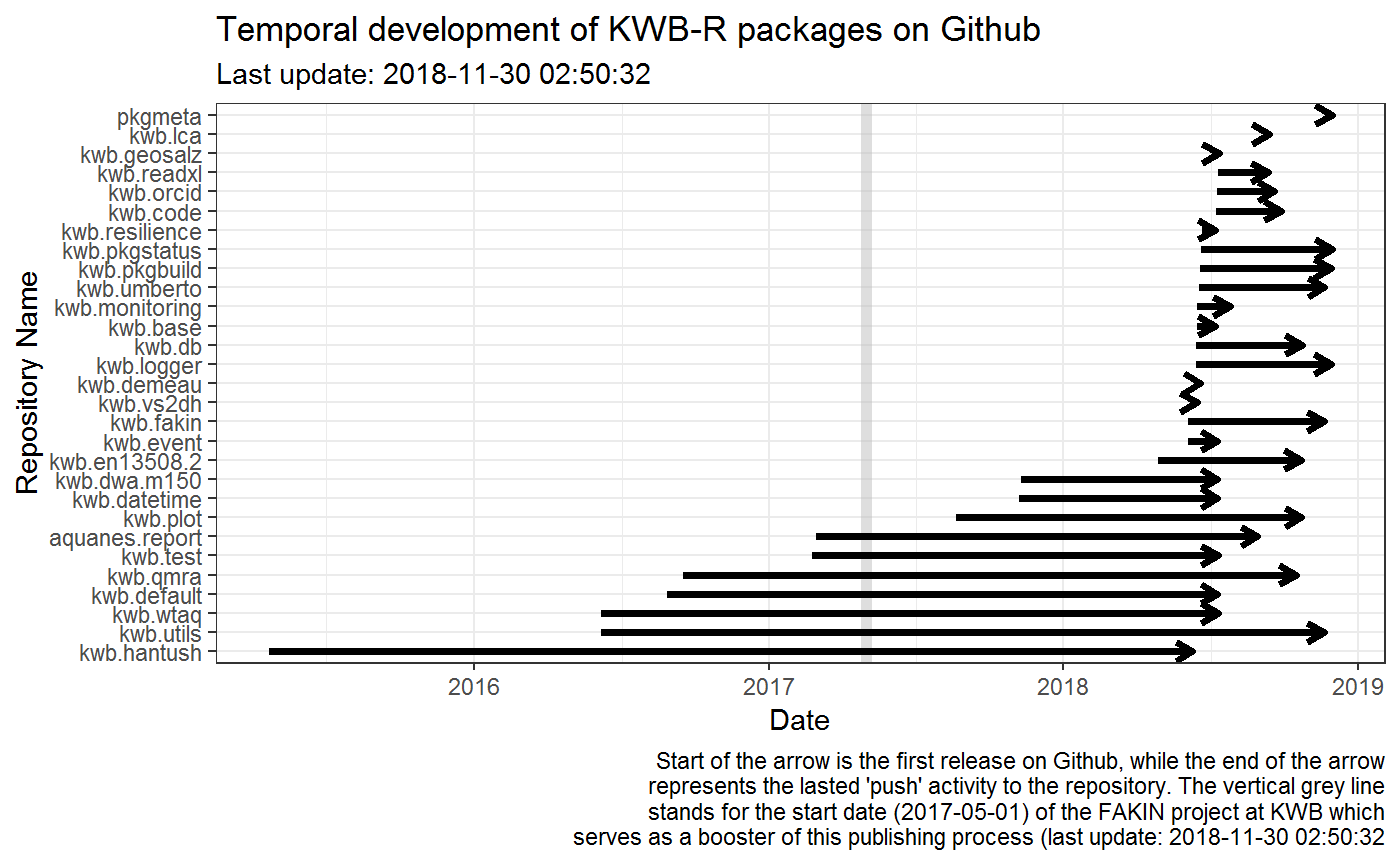
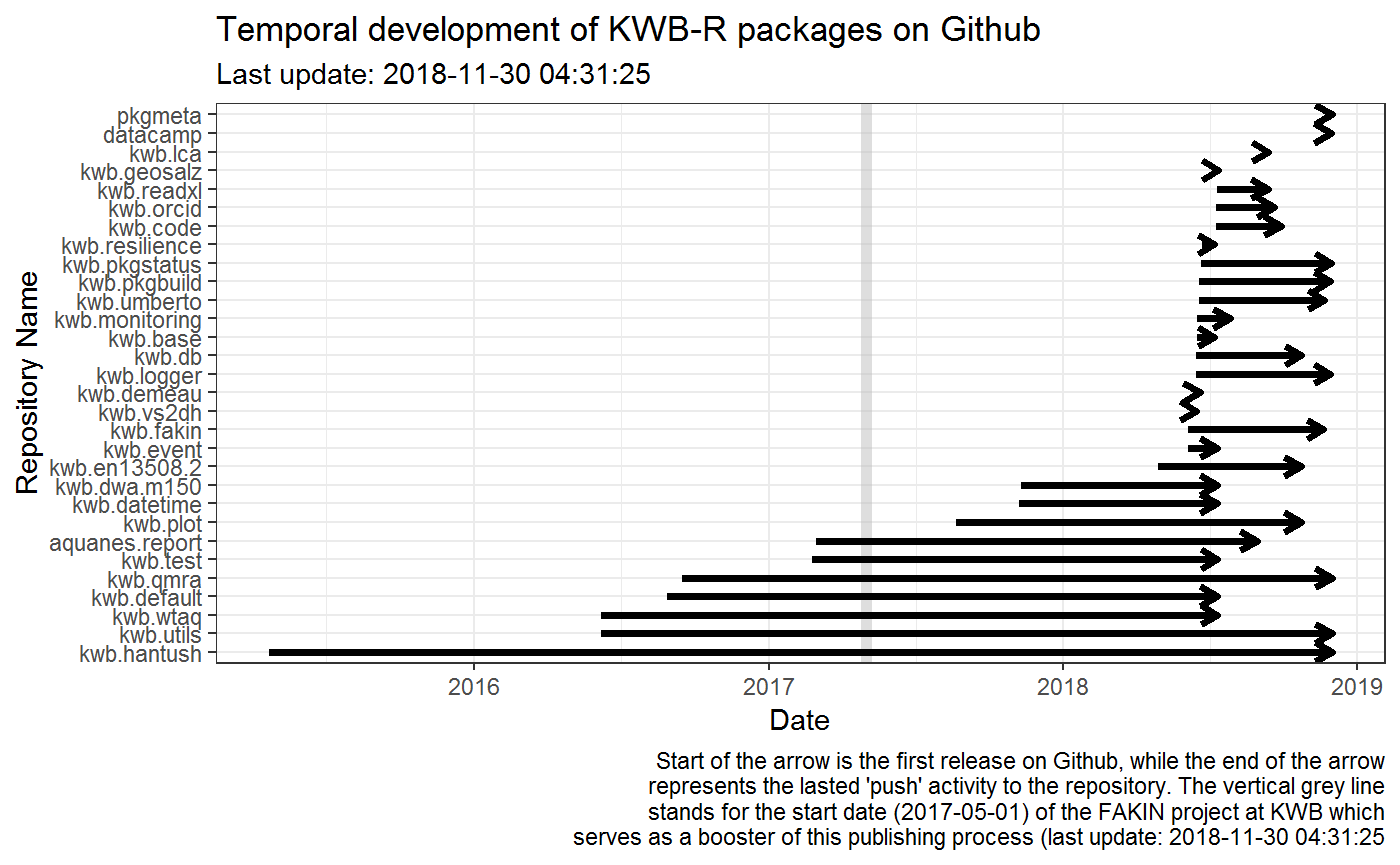
update docu after fixing links for kwb.qmra/hantush

diff --git a/docs/dev/articles/package-dependencies.html b/docs/dev/articles/package-dependencies.html
@@ -119,7 +119,7 @@
 <a class="sourceLine" id="cb1-16" data-line-number="16"></a>
 <a class="sourceLine" id="cb1-17" data-line-number="17">withr<span class="op">::</span><span class="kw"><a href="http://www.rdocumentation.org/packages/withr/topics/with_libpaths">with_libpaths</a></span>(<span class="dt">new =</span> pkglib, remotes<span class="op">::</span><span class="kw"><a href="http://www.rdocumentation.org/packages/remotes/topics/install_github">install_github</a></span>(<span class="st">"UptakeOpenSource/pkgnet@d1e974de299d46e71b082e027a71b8b254edc9b2"</span>,</a>
 <a class="sourceLine" id="cb1-18" data-line-number="18">                                                           <span class="dt">upgrade =</span> <span class="st">"always"</span>))</a>
-<a class="sourceLine" id="cb1-19" data-line-number="19">withr<span class="op">::</span><span class="kw"><a href="http://www.rdocumentation.org/packages/withr/topics/with_libpaths">with_libpaths</a></span>(<span class="dt">new =</span> pkglib, <span class="kw">install.packages</span>(<span class="st">"codemetar"</span>, <span class="dt">repos =</span> <span class="st">"https://cloud.r-project.org/"</span>))</a>
+<a class="sourceLine" id="cb1-19" data-line-number="19">withr<span class="op">::</span><span class="kw"><a href="http://www.rdocumentation.org/packages/withr/topics/with_libpaths">with_libpaths</a></span>(<span class="dt">new =</span> pkglib, remotes<span class="op">::</span><span class="kw"><a href="http://www.rdocumentation.org/packages/remotes/topics/install_github">install_github</a></span>(<span class="st">"mrustl/codemetar"</span>))</a>
 <a class="sourceLine" id="cb1-20" data-line-number="20">withr<span class="op">::</span><span class="kw"><a href="http://www.rdocumentation.org/packages/withr/topics/with_libpaths">with_libpaths</a></span>(<span class="dt">new =</span> pkglib, <span class="kw">install.packages</span>(<span class="st">"purrr"</span>, <span class="dt">repos =</span> <span class="st">"https://cloud.r-project.org/"</span>))</a></code></pre></div>
 <div id="install-kwb-packages-with-dependencies-in-own-library" class="section level2">
 <h2 class="hasAnchor">

diff --git a/docs/dev/reference/download_github.html b/docs/dev/reference/download_github.html
@@ -134,7 +134,8 @@ https://github.com/r-lib/remotes/blob/bd970d723facc6ede2ff0f54ce4ae917526a37f8/i
     </div>
 
     <pre class="usage"><span class='fu'>download_github</span>(<span class='no'>repo</span>, <span class='kw'>ref</span> <span class='kw'>=</span> <span class='st'>"master"</span>, <span class='kw'>dest_dir</span> <span class='kw'>=</span> <span class='fu'>tempdir</span>(),
-  <span class='kw'>use_zip</span> <span class='kw'>=</span> <span class='fl'>FALSE</span>, <span class='kw'>quiet</span> <span class='kw'>=</span> <span class='fl'>FALSE</span>, <span class='kw'>auth_token</span> <span class='kw'>=</span> <span class='kw'>NULL</span>)</pre>
+  <span class='kw'>use_zip</span> <span class='kw'>=</span> <span class='fl'>FALSE</span>, <span class='kw'>quiet</span> <span class='kw'>=</span> <span class='fl'>FALSE</span>,
+  <span class='kw'>auth_token</span> <span class='kw'>=</span> <span class='fu'>getOption</span>(<span class='st'>"github_token"</span>))</pre>
     
     <h2 class="hasAnchor" id="arguments"><a class="anchor" href="#arguments"></a>Arguments</h2>
     <table class="ref-arguments">
@@ -162,7 +163,8 @@ https://github.com/r-lib/remotes/blob/bd970d723facc6ede2ff0f54ce4ae917526a37f8/i
     </tr>
     <tr>
       <th>auth_token</th>
-      <td><p>auth_token (needed to download "private" repos), default: NULL</p></td>
+      <td><p>auth_token (needed to download "private" repos), default:
+getOption("github_token")</p></td>
     </tr>
     </table>
     

diff --git a/docs/dev/reference/plot_github_pkgs_over_time.html b/docs/dev/reference/plot_github_pkgs_over_time.html
@@ -129,7 +129,7 @@
     
     </div>
 
-    <pre class="usage"><span class='fu'>plot_github_pkgs_over_time</span>(<span class='no'>df_pkgs</span>)</pre>
+    <pre class="usage"><span class='fu'>plot_github_pkgs_over_time</span>(<span class='no'>df_pkgs</span>, <span class='kw'>last_update</span> <span class='kw'>=</span> <span class='fu'>Sys.time</span>())</pre>
     
     <h2 class="hasAnchor" id="arguments"><a class="anchor" href="#arguments"></a>Arguments</h2>
     <table class="ref-arguments">
@@ -137,6 +137,10 @@
     <tr>
       <th>df_pkgs</th>
       <td><p>data frame with pkgs as retrieved with get_github_packages()</p></td>
+    </tr>
+    <tr>
+      <th>last_update</th>
+      <td><p>default: Sys.time()</p></td>
     </tr>
     </table>
     

diff --git a/docs/dev/articles/codemetar-analysis.html b/docs/dev/articles/codemetar-analysis.html
@@ -197,7 +197,7 @@
 </tr>
 <tr class="odd">
 <td align="left">kwb.hantush</td>
-<td align="left"></td>
+<td align="left">r, rstats, infiltration-basin, groundwater-mounding, groundwater-modelling</td>
 </tr>
 <tr class="even">
 <td align="left">kwb.lca</td>
@@ -229,7 +229,7 @@
 </tr>
 <tr class="odd">
 <td align="left">kwb.qmra</td>
-<td align="left"></td>
+<td align="left">r, rstats</td>
 </tr>
 <tr class="even">
 <td align="left">kwb.readxl</td>

diff --git a/docs/dev/reference/get_github_packages.html b/docs/dev/reference/get_github_packages.html
@@ -142,7 +142,7 @@
     <tr>
       <th>github_token</th>
       <td><p>optionally a Github token in order to access private
-repositories (default: NULL)</p></td>
+repositories (default: getOption("github_token"))</p></td>
     </tr>
     </table>
     
